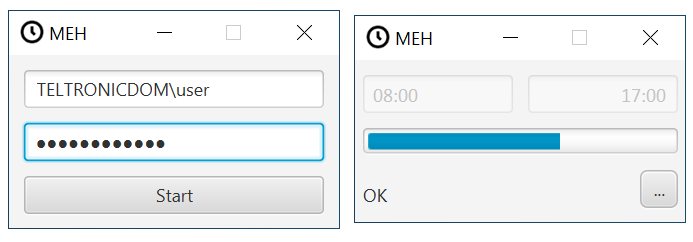
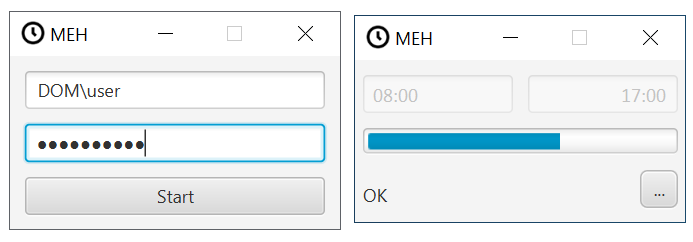
Remove Teltronic from main page

diff --git a/README.md b/README.md
@@ -20,7 +20,7 @@ Es posible configurar la aplicación por medio del fichero meh.properties que se
 
 | Clave          |         Defecto         |                                                                                                                              Descripción |
 |----------------|:-----------------------:|-----------------------------------------------------------------------------------------------------------------------------------------:|
-| user           | TELTRONICDOM\\\\usuario |                     Nombre de usuario idéntico al usado en el Portal-del-empleado. La contra-barra debe escaparse con otra contra-barra. |
+| user           | DOM\\\\usuario |                     Nombre de usuario idéntico al usado en el Portal-del-empleado. La contra-barra debe escaparse con otra contra-barra. |
 | minimizetotray |          false          | Al minimizar la ventana de progreso, se oculta la ventana y se muestra un icono en la bandeja del sistema. Valores posibles: true, false |
 | log            |          info           |                                          Define el nivel de log que se escribe. Valores posibles: trace, debug, info, warn, error, fatal |
 
